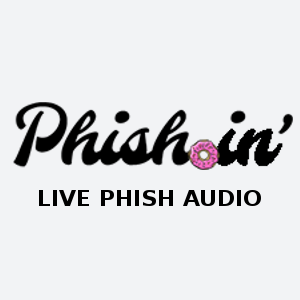
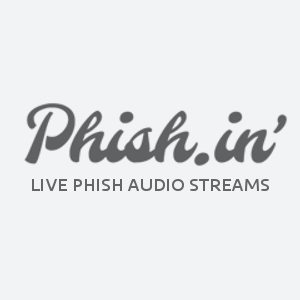
Replace art

Changed region(s): [[0.03, 0.33, 0.99, 0.57], [0.09, 0.6, 0.9, 0.69]]

diff --git a/README.md b/README.md
@@ -14,5 +14,5 @@ KNOWN BUGS:
 - gracefully fail search (currently when search fails due to no response from Phish.in, results from other music services might not return)
  
 TODO (in no particular order):
-- add official art
+- add higher res art?
 - add links to phish.net if possible
